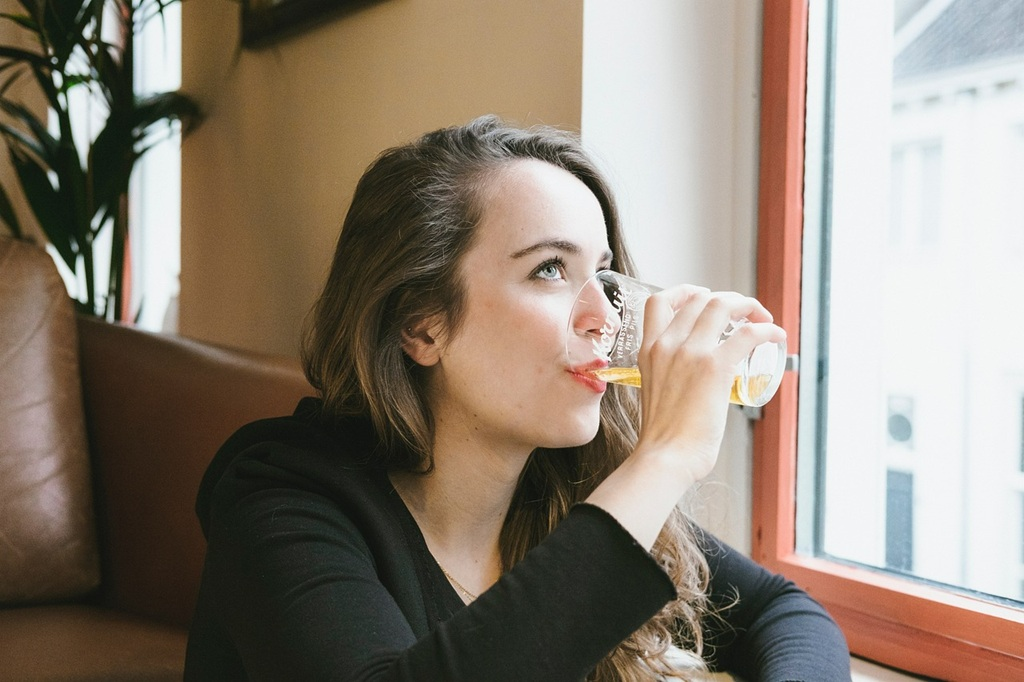
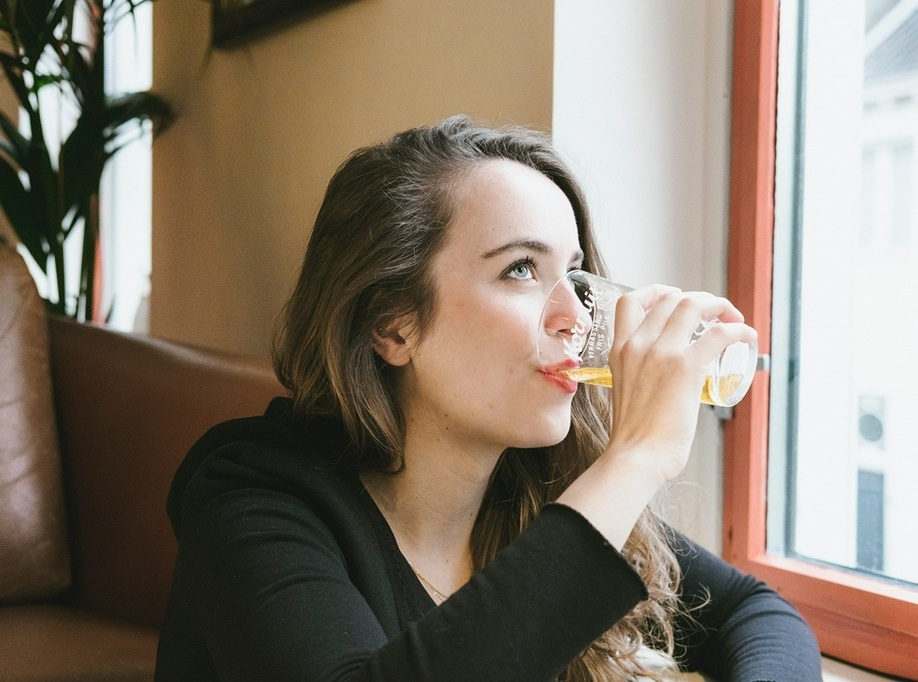
mail + make images smaller

diff --git a/src/pages/HomePage.tsx b/src/pages/HomePage.tsx
@@ -11,8 +11,6 @@ import { APP_ICONS, GENDER, MOBILE_SCREEN_WIDTH } from "../utils/constantsUtil";
 export const HomePage = () => {
   const { t } = useTranslation();
   const { 
-    name,
-    setName,
     gender,
     setGender,
     setIsMobile
@@ -61,6 +59,8 @@ export const HomePage = () => {
               width={ isMobile ? "250px" : "550px"}
             />
           </div> 
+          <div className="light-comment">הערות? מחשבות? כתבו לנו</div>
+          <div className="light-comment">ahava.applikef@gmail.com</div>
         </div>
       </div>
     </>

diff --git a/src/pages/feelings.tsx b/src/pages/feelings.tsx
@@ -2,7 +2,7 @@ import { useNavigate } from "react-router-dom";
 import { useTranslation } from 'react-i18next';
 import { Card } from "../components/shared/Card/Card";
 import { FeelingsCatalogUtil } from "../utils/catalogUtil";
-import { APP_ICONS, DEFAULT_IMAGE_HEIGHT, GENDER, MOBILE_HEIGHT_RATIO } from "../utils/constantsUtil";
+import { APP_ICONS, DEFAULT_IMAGE_HEIGHT, MOBILE_HEIGHT_RATIO } from "../utils/constantsUtil";
 import "./../assets/styles/global.css";
 import { useContext, useState } from "react";
 import { Banner } from "../components/shared/Banner/Banner";

diff --git a/src/pages/explore.tsx b/src/pages/explore.tsx
@@ -13,7 +13,6 @@ export const Explore = () => {
   const { t } = useTranslation();
 
   const { 
-    name,
     gender,
     selectedFeelingsList,
   } = useContext(AppContext) as AppContextType;

diff --git a/src/assets/styles/global.css b/src/assets/styles/global.css
@@ -311,3 +311,8 @@ a {
   left: 110px;
   padding: 16px;
 }
+
+.light-comment {
+  color: var(--gray-05);
+  font-size: var(--size-normal);
+}
